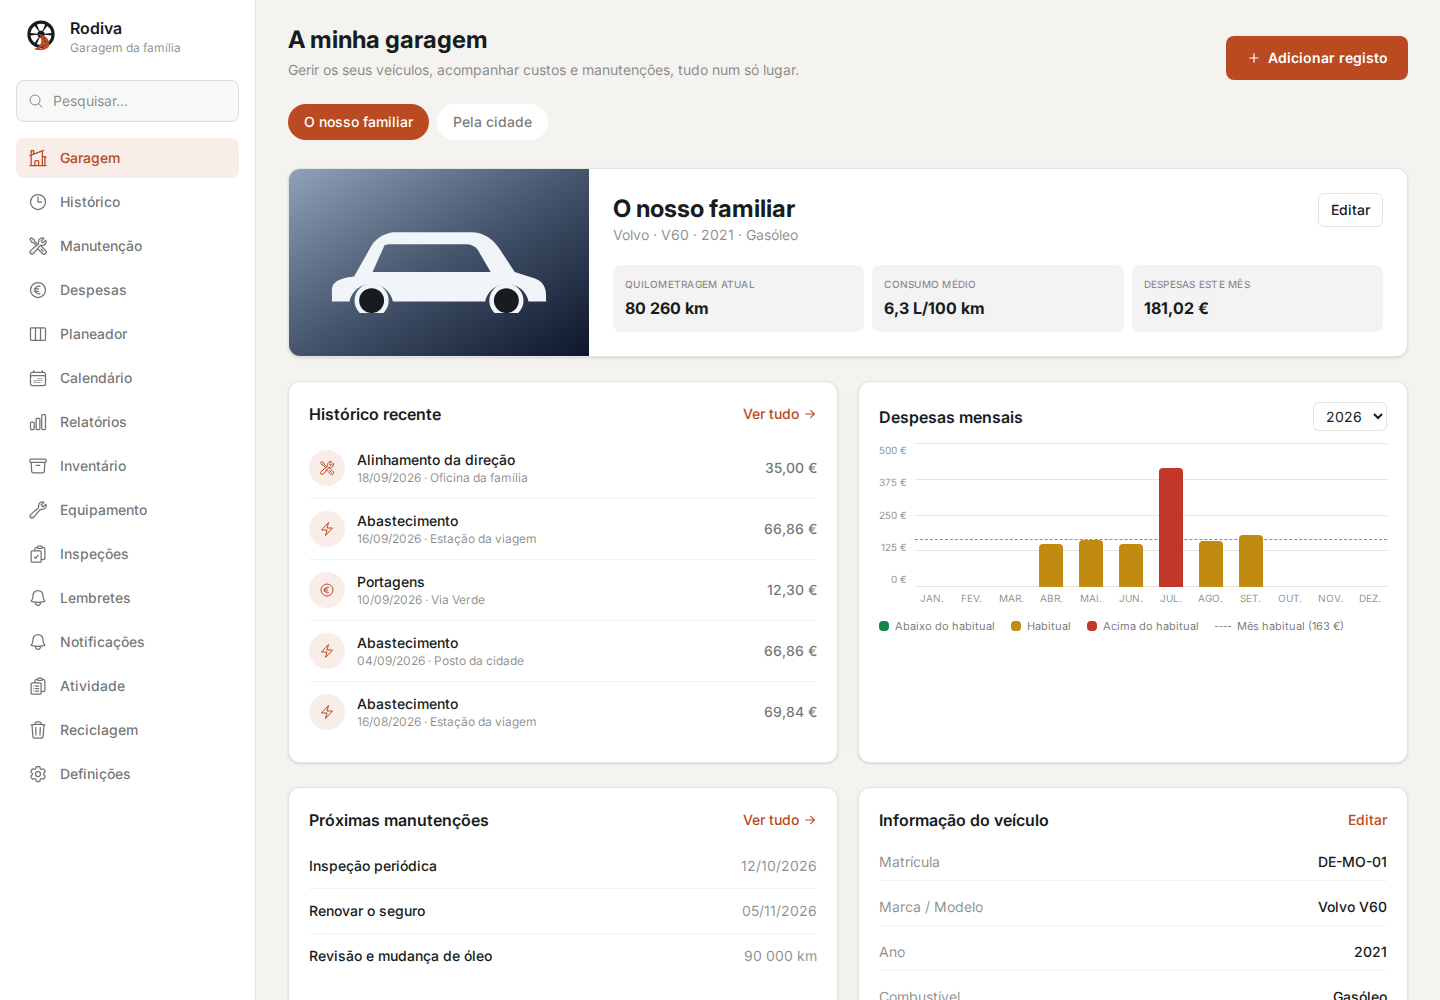
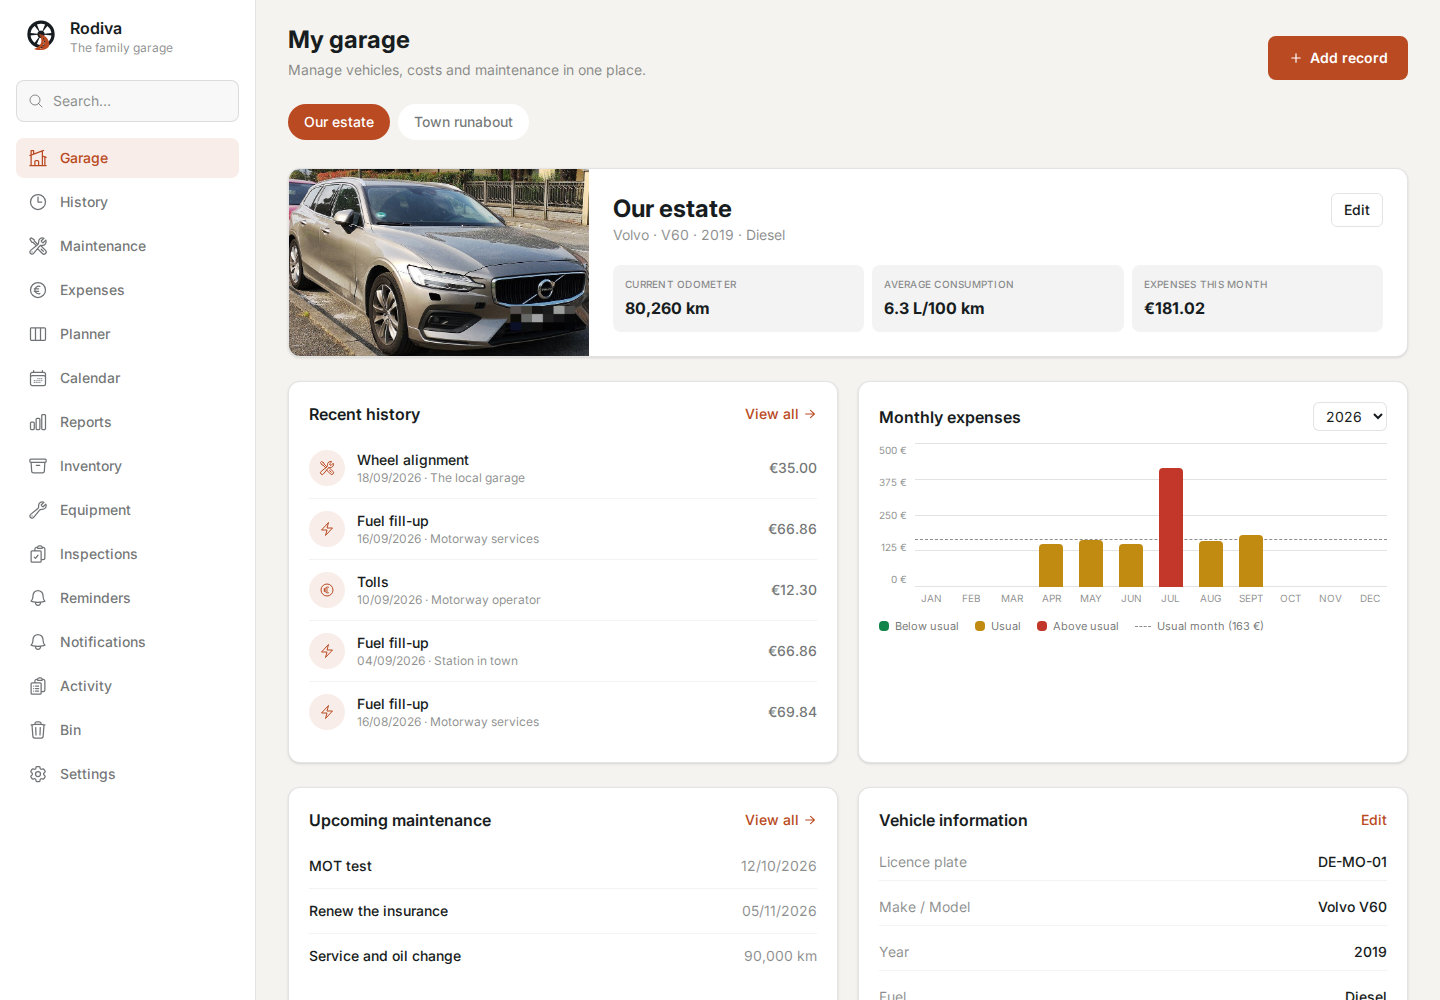
docs: recapture the gallery in English, with a real vehicle photo
The screenshots ran in Portuguese while the README around them was English,
and the vehicle card showed the placeholder car icon rather than a car.

The script now sets the demonstration account to English and uploads a
photograph. It is a CC0 Volvo V60 from Wikimedia Commons, cropped to the car,
with its number plate pixelated — the interface shows a fictional plate and
the real one belongs to someone. The second vehicle was renamed so the
reports page, which orders by name, opens on the one with six months of
records rather than on a column of dashes.

diff --git a/docs/SCREENSHOTS.md b/docs/SCREENSHOTS.md
@@ -6,6 +6,15 @@ The images in `docs/images/` are captures of the running application, with ficti
 created through the API. The logo is the same SVG the interface uses, from
 `frontend/public/icons/`. They are neither mockups nor photographs of a physical iPhone.
 
+The gallery runs the interface in English: the script sets the demonstration account's
+language to `en` after registering it.
+
+`frontend/scripts/demo-vehicle.jpg` is the vehicle photograph the script uploads. It comes
+from [Volvo V60 (48566713551).jpg](https://commons.wikimedia.org/wiki/File:Volvo_V60_(48566713551).jpg)
+on Wikimedia Commons, released under **CC0** — no attribution is required, and the credit
+here is courtesy. It was cropped to the car and its number plate was pixelated, since the
+interface shows a fictional plate and the original belongs to someone.
+
 ## Recreating the gallery
 
 Use a local, disposable database. The script creates a fresh account and household on every
@@ -54,9 +63,9 @@ node scripts/readme-screenshots.mjs
 `SCREENSHOT_BASE_URL` picks another local address. The script refuses remote hosts. It needs
 access to Google Fonts to use the typography the application loads.
 
-It launches the browser with `LANG=pt_PT.UTF-8`, because Chromium renders
+It launches the browser with `LANG=en_GB.UTF-8`, because Chromium renders
 `<input type="date">` in its own UI language rather than the page's: without it every form
-in the gallery would read `mm/dd/yyyy`.
+in the gallery would read `mm/dd/yyyy` instead of `dd/mm/yyyy`.
 
 ## The images produced
 

diff --git a/README.md b/README.md
@@ -45,9 +45,9 @@ and the documents stay on whatever infrastructure you install it on.
 ## The interface
 
 Get to know the application without installing anything. The images below are **real
-screenshots of the interface with fictional demonstration data**, in European Portuguese —
-the default language, alongside English, French and Spanish. Click an image to open it full
-size.
+screenshots of the interface with fictional demonstration data**, in English. The
+application also ships European Portuguese — its default — plus French and Spanish. Click an
+image to open it full size.
 
 ### On a phone
 
